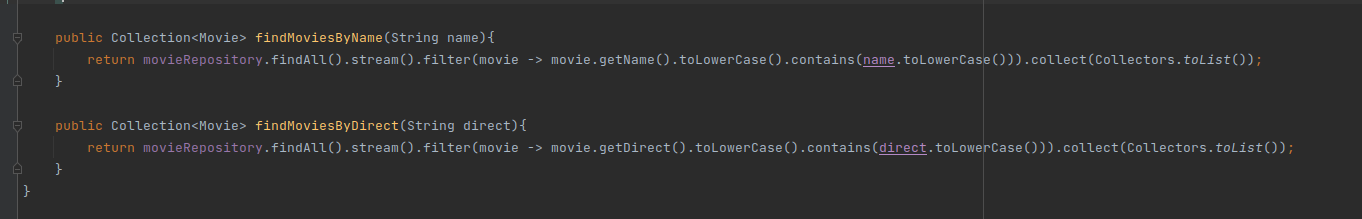
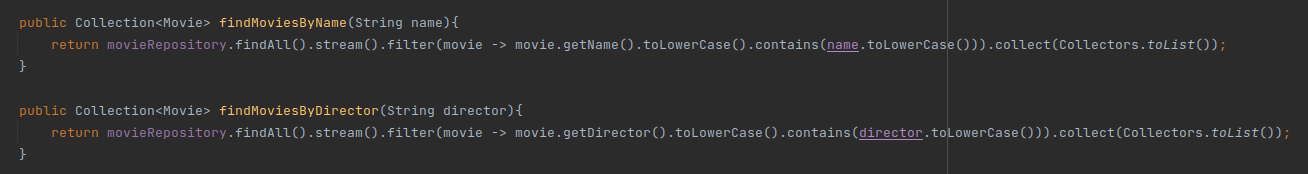
Clase 23

diff --git a/Curso basico de testing en java.md b/Curso basico de testing en java.md
@@ -452,7 +452,7 @@ Se creo el método *findMoviesByName()* que busca a las películas por nombre, e
 **MovieService**
 ![21_Reto_3_01](src/Curso_Basico_de_Testing_en_Java/21_Reto_3_01.png)
 
-Se hizo lo mismo pero agregando el atributo *director* a Movies y los cambios que implica, e implementando *findMoviesByDirect()* con su test.
+Se hizo lo mismo pero agregando el atributo *director* a Movies y los cambios que implica, e implementando *findMoviesByDirector()* con su test.
 
 ![21_Reto_3_02](src/Curso_Basico_de_Testing_en_Java/21_Reto_3_02.png)
 
@@ -462,10 +462,27 @@ Se hizo lo mismo pero agregando el atributo *director* a Movies y los cambios qu
 
 ## Módulo 6 - Requerimientos y tests
 ### Clase 22 - Test a partir de requerimiento
+Normalmente, el desarrollo de los proyectos comienza a partir de requerimientos muy bien especificados. Sin embargo, habrá veces donde el programador debe definirlos o acabar de
+concretarlos. No importa cuál sea el caso, solo podemos empezar a escribir los tests una vez tenemos los requerimientos.
+
+Existen diferentes escenarios:
+- Típicos (Happy path) - El camino común y esperado.
+- Extremos - Los datos son muy grandes, pequeños o negativos.
+- Incorrectos - Nuestro método tiene que lanzar una exeption, devolver un error o algo por el estilo.
+- No previstos... bug! - Se escribirá un test para corregir nuestro código y pase la prueba.
 
 ---
 
 ### Clase 23 - Reto 4: Búsqueda por varios atributos
+Se implementa una busqueda por varios atributos de las películas con sus respectivos Tests.
+
+**MovieService**  
+![23_Reto_4_01](src/Curso_Basico_de_Testing_en_Java/23_Reto_4_01.png)
+
+**MovieServiceShould**  
+![23_Reto_4_02](src/Curso_Basico_de_Testing_en_Java/23_Reto_4_02.png)
+
+![23_Reto_4_03](src/Curso_Basico_de_Testing_en_Java/23_Reto_4_03.png)
 
 ---
 
